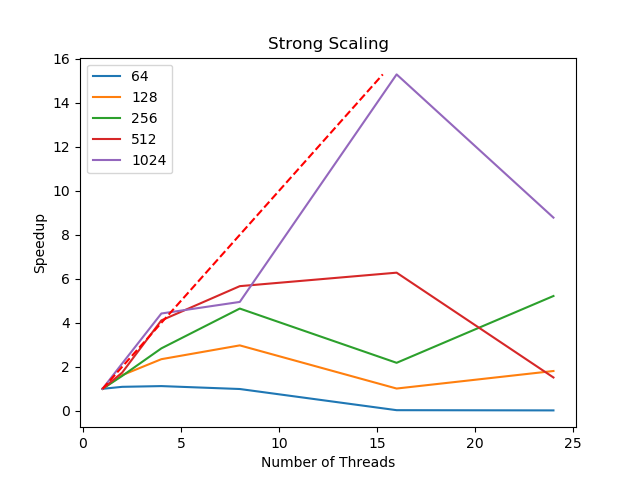
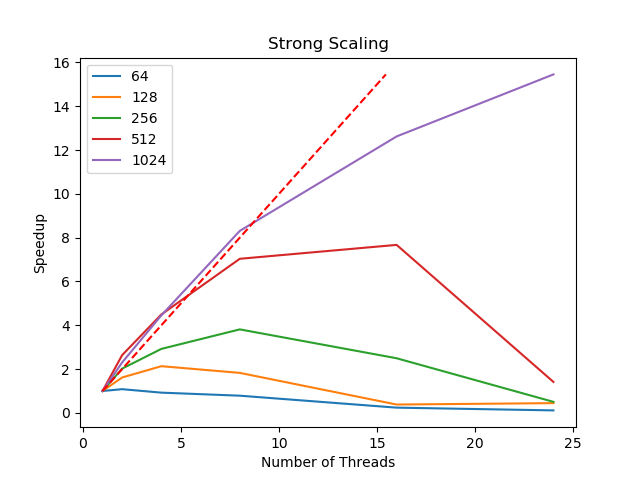
Strong plot is working

diff --git a/project3_menzi_simon/fisherplot.py b/project3_menzi_simon/fisherplot.py
@@ -2,31 +2,30 @@ import matplotlib.pyplot as plt
 import numpy as np
 import pandas as pd
 
-
 df = pd.read_csv("strong_output.csv", index_col=False)
-# Strong scaling plot
-threads = pd.unique(df["threads"])
-sizes = pd.unique(df["size"])
-runtimes = df["runtime"]
-# print(runtimes, threads, sizes)
+
+# Calculate the average of the runtimes for each row
+df['runtime_avg'] = df.iloc[:, 2:].mean(axis=1)
+
+# Store the result in a variable called runtimes
+runtimes = df['runtime_avg']
 
 plt.title('Strong Scaling')
 
 max_speedup = 0
 
-for n in sizes:
-    runtimes = df[df['size'] == n]["runtime"]
-    speedup = runtimes.iloc[0] / runtimes
-    print(speedup)
-    plt.plot(threads, speedup, label=n)
+sizes = pd.unique(df["size"])
+threads = pd.unique(df["threads"])
 
+for n in sizes:
+    runtimes = df[df['size'] == n]["runtime_avg"]
+    speedup = runtimes.iloc[0] / runtimes
+    plt.plot(threads, speedup, label=n)
     if max_speedup < speedup.max():
         max_speedup = speedup.max()
 
 plt.xlabel('Number of Threads')
 plt.ylabel('Speedup')
 plt.legend()
-
 plt.plot(np.array([1, max_speedup]), np.array([1, max_speedup]), 'r--')
-
 plt.savefig('strong_scaling.png')
